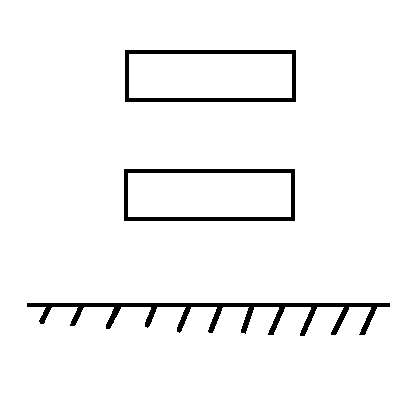
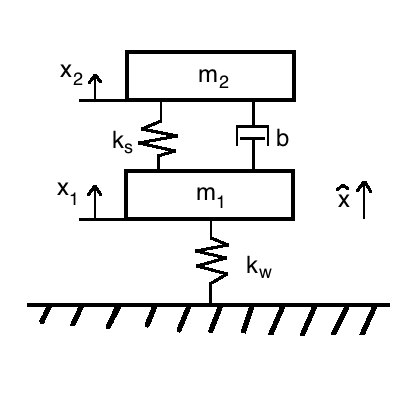
worked on control theory notes

diff --git a/notes/control_theory/control_theory_main.html b/notes/control_theory/control_theory_main.html
@@ -25,6 +25,12 @@ title: Control Theory
 <blockquote>
 <p><strong>Mechanical Systems</strong></p>
 </blockquote>
+<blockquote>
+<ul>
+<li>For translational motion : <img style="vertical-align:middle" src="http://chart.apis.google.com/chart?cht=tx&amp;chl=%5Cunderline%7BF%7D%20%3D%20m%20%5E%7BN%7D%5Cunderline%7Ba%7D" alt="\underline{F} = m ^{N}\underline{a}" title="\underline{F} = m ^{N}\underline{a}" /></li>
+<li>Example given the following diagram</li>
+</ul>
+</blockquote>
 <div align="center">
 <table class="image">
 <tr>
@@ -35,6 +41,14 @@ alt="Mechanical System" title="Mechanical System"/>
 </tr>
 </table>
 </div>
+<blockquote>
+<ul>
+<li>Sum of forces for block 1:
+<ul>
+<li><img style="vertical-align:middle" src="http://chart.apis.google.com/chart?cht=tx&amp;chl=%5Csum%20%5Cunderline%7BF%7D%20%3D%20b%20%28%5Cdot%7Bx%7D_%7B2%7D%20-%20%5Cdot%7Bx%7D_%7B1%7D%29%20%5Chat%7Bx%7D%20%2B%20k" alt="\sum \underline{F} = b (\dot{x}_{2} - \dot{x}_{1}) \hat{x} + k" title="\sum \underline{F} = b (\dot{x}_{2} - \dot{x}_{1}) \hat{x} + k" /> INCOMPLETE</li>
+</ul></li>
+</ul>
+</blockquote>
 <blockquote>
 <p><strong>Electrical Systems</strong></p>
 </blockquote>

diff --git a/source/notes/control_theory/control_theory_main.md b/source/notes/control_theory/control_theory_main.md
@@ -20,6 +20,9 @@ implementing more complex control logic
 
 > __Mechanical Systems__
 
+> - For translational motion : $\underline{F} = m ^{N}\underline{a}$
+> - Example given the following diagram
+
 <div align="center">
 <table class="image">
 <tr><td><img src="./img/dynamicalsys_mech.png"
@@ -27,6 +30,9 @@ alt="Mechanical System" title="Mechanical System"/>
 </td></tr>
 </table>
 </div>
+
+> - Sum of forces for block 1:
+>       - $\sum \underline{F} = b (\dot{x}_{2} - \dot{x}_{1}) \hat{x} + k$ INCOMPLETE
 
 > __Electrical Systems__
 
